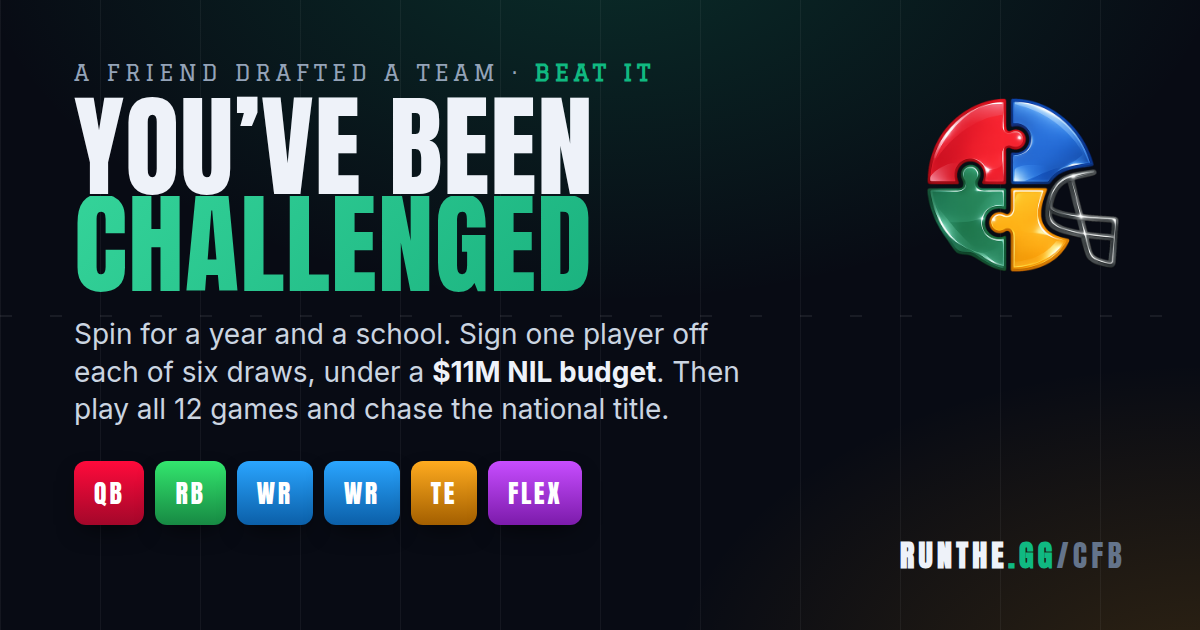
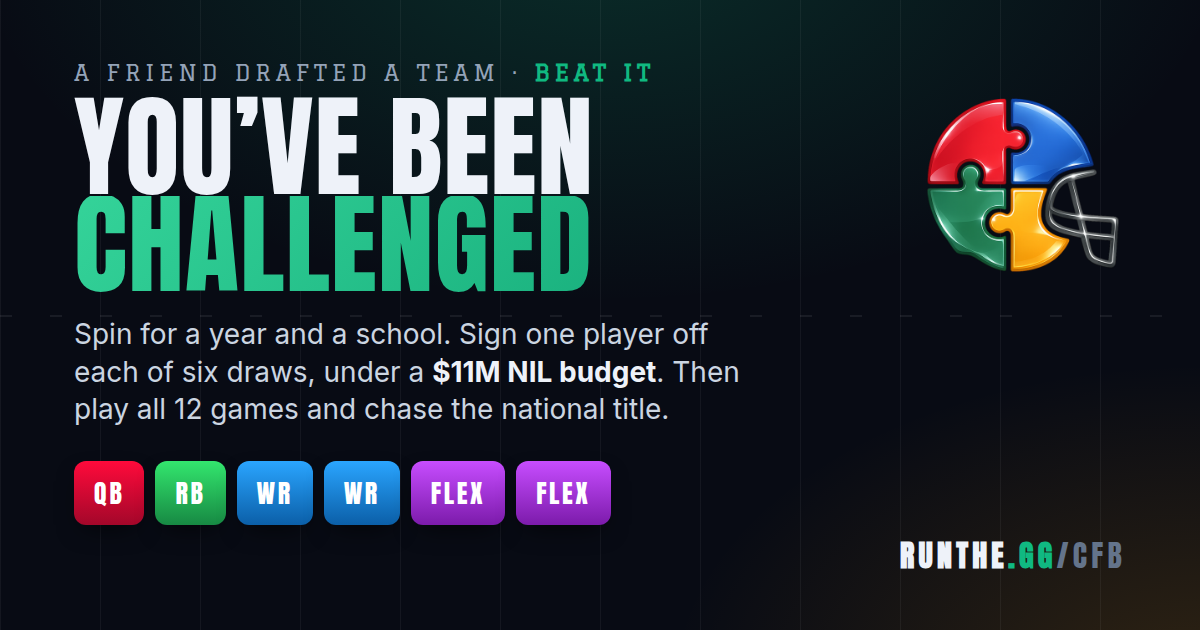
Roster slots become QB/RB/WR/WR/FLEX/FLEX, tight end optional, two-back cap
The dedicated tight end slot is gone. Only 73% of team-seasons even
field a tight end and the position's ceiling sits far below receiver and
back, so a forced TE spot made every roster carry the pool's weakest
position and locked out most early-2000s teams that have none to draft.
The tight end now competes for a flex spot, which makes it a choice: sign
one for a two-way front, or skip him for a third receiver and throw it
around. TEs are not extinct (a value drafter rosters one ~60% of the
time, a greedy one ~25-37%) and not mandatory. The Air Raid scheme now
names the no-tight-end aerial identity, and Pro Style and Power Run still
reward a real tight end beside a real back.

A running back is capped at two per roster: with two flex spots open to a
back, a roster could otherwise stack three, which is not a real offence.
The cap is enforced in the live draft and threaded through the
best-possible-squad knapsack (a third DP axis) and its local-search
climb, so the best-possible shown on the results screen, and the
perfect-draft badge measured against it, stay draftable.

ECONOMY RE-ANCHORED. Dropping the forced weak TE lifted the best
draftable overall from about 102 to about 111, and the two-back cap
pushes the greedy drafter into a receiver, which the balance factor
rewards, so both changes made the average roster stronger and pulled
title and perfect rates up by roughly half again. The last-two-round
pivots and the perfect floor rise with the ceiling to hold difficulty:
[…]

Changed region(s): [[0.3392, 0.7238, 0.5242, 0.8444]]

diff --git a/cfb/engine.js b/cfb/engine.js
@@ -39,6 +39,13 @@ const CONSTANTS = {
   CAP_MUSD: 11,
   RESPIN_LADDER_MUSD: [0.5, 1.0, 1.5],
   MAX_RESPINS: 3,
+  /* HOW MANY OF ONE POSITION A ROSTER MAY HOLD. With two flex spots open to a
+     running back, a roster could otherwise stack three of them, which is not a
+     real offence. Two is the limit: one in the dedicated back spot and at most
+     one more in a flex. Quarterbacks are capped at one by having a single slot
+     and no flex eligibility; receivers and tight ends are left uncapped so an
+     all-receiver Air Raid stays a legal choice. */
+  POSITION_MAX: { RB: 2 },
   MIN_RESERVE_PER_SLOT_MUSD: 0.3,
   REGULAR_SEASON_GAMES: 12,
   /* The 12-team College Football Playoff. You are not measured against a win
@@ -67,8 +74,8 @@ const CONSTANTS = {
   /* THE TWO FLOORS UNDER THE TITLE. See teamRating() and titleEdge(). They are
      in rating points, which is what the screens show, because there is no scale
      factor any more: see teamOverall(). */
-  TITLE_FLOOR: 88,
-  PERFECT_FLOOR: 90,
+  TITLE_FLOOR: 89,
+  PERFECT_FLOOR: 92,
   ROUND_EDGE_MAX: 3.20,
   ROUND_EDGE_MIN: 0.86,
   ROUND_EDGE_SLOPE: 0.075,
@@ -77,17 +84,23 @@ const CONSTANTS = {
      scraped into the field; the team waiting in the final is not. This is what
      makes how FAR a season goes track the roster rather than the draw.
      The last two are set high on purpose so that winning it all is rare even
-     with the field widened: the semifinal at 98 thins who reaches the final to
-     near-elite rosters, and the championship at 99 needs a roster near the very
-     top of what the wheel can hand you. 99 sits just under the best draftable
-     overall (about 102), which is the floor: pushed to 100 the final becomes
-     unwinnable for every reachable roster and a perfect season turns
-     mathematically impossible, so 99 is deliberate, not round. */
+     with the field widened: the semifinal thins who reaches the final to
+     near-elite rosters, and the championship needs a roster near the very top
+     of what the wheel can hand you. RE-ANCHORED when the tight-end slot became
+     a second flex: dropping the forced weak TE lifted the best draftable overall
+     from about 102 to about 111 (p95 of the best-possible draft is ~104), which
+     pulled title and perfect rates up by roughly half again. The semifinal and
+     championship pivots move up with the ceiling to hold those rates where they
+     were, and rose once more when the two-back cap landed: forbidding a third
+     running back pushes the greedy drafter into a receiver, which the balance
+     factor rewards, so the average roster got stronger and titles crept up
+     again. Both still sit a clear eight-plus points under the 111 max, so a
+     perfect season stays reachable rather than mathematically impossible. */
   ROUND_EDGE_PIVOT: {
     'CFP First Round': 82,
-    'CFP Quarterfinal': 88,
-    'CFP Semifinal': 98,
-    'CFP Championship': 99,
+    'CFP Quarterfinal': 90,
+    'CFP Semifinal': 100,
+    'CFP Championship': 102,
   },
   // Extra, per point below TITLE_FLOOR, on top of the ordinary slope. Final only.
   TITLE_EDGE_CLIFF: 0.16,
@@ -769,14 +782,27 @@ const SCHEMES = [
     key: 'air_raid',
     name: 'Air Raid',
     detect(roster) {
+      /* THE NO-TIGHT-END IDENTITY. With the TE slot gone, skipping the tight
+         end for a third receiver is a real choice, and this is its reward: a
+         big-arm quarterback and a deep receiver room, no in-line tight end,
+         everything spread wide. A roster that signed a TE is not an Air Raid;
+         it falls through to Pro Style or Power Run below. */
+      if (roster.some(p => p.position === 'TE')) return -1;
       const qb = roster.find(p => p.position === 'QB');
       if (!qb || (qb.pass_ppg || 0) < 16) return -1;
       const wrs = roster.filter(p => p.position === 'WR' && (p.rec_ppg || 0) >= 8)
         .sort((a, b) => (b.rec_ppg || 0) - (a.rec_ppg || 0));
       if (wrs.length < 2) return -1;
-      return fitAvg(over(qb.pass_ppg, 16, 7), over(wrs[0].rec_ppg, 8, 7), over(wrs[1].rec_ppg, 8, 7));
+      /* A third receiving threat (the flex, usually a WR) deepens the room and
+         lifts the fit, so a true three-wide set reads as a fuller Air Raid than
+         a two-man one. */
+      const third = roster.filter(p => (p.rec_ppg || 0) >= 6 && p !== wrs[0] && p !== wrs[1])
+        .sort((a, b) => (b.rec_ppg || 0) - (a.rec_ppg || 0))[0];
+      const parts = [over(qb.pass_ppg, 16, 7), over(wrs[0].rec_ppg, 8, 7), over(wrs[1].rec_ppg, 8, 7)];
+      if (third) parts.push(over(third.rec_ppg, 6, 7));
+      return fitAvg(...parts);
     },
-    strength: 'Air Raid. The passing game can carry this team.',
+    strength: 'Air Raid. No tight end, all receivers, the pass game carries it.',
   },
   {
     key: 'pro_style',
@@ -933,7 +959,16 @@ function coachReport(roster, chemResult) {
 
 // ─── slots ──────────────────────────────────────────────────────────────────
 
-const SLOTS = ['QB', 'RB', 'WR', 'WR', 'TE', 'FLEX'];
+/* NO DEDICATED TIGHT END SLOT. Only 73% of team-seasons field a TE at all, and
+   the position's ceiling is far below WR and RB (its best season scores 24 to
+   their 35), so a forced TE spot made every roster carry the pool's weakest
+   position and quietly locked out most of the early-2000s teams that have no TE
+   to draft. The tight end now competes for a FLEX spot instead, which turns him
+   into a CHOICE: sign one for a balanced, two-way front (the Pro Style and Power
+   Run schemes reward a real TE beside a real RB), or skip him for a third
+   receiver and let the Air Raid carry you through the air. The TE entry stays in
+   the eligibility map so a tight end is still FLEX-eligible. */
+const SLOTS = ['QB', 'RB', 'WR', 'WR', 'FLEX', 'FLEX'];
 const SLOT_ELIGIBILITY = {
   QB: ['QB'], RB: ['RB'], WR: ['WR'], TE: ['TE'], FLEX: ['RB', 'WR', 'TE'],
 };

diff --git a/cfb/run.js b/cfb/run.js
@@ -225,6 +225,12 @@ function openSlots(run) {
 }
 
 function slotForPlayer(run, player) {
+  /* A position cap blocks the pick outright, whatever slot is open: two running
+     backs is the limit, so a third has nowhere to go even with a flex free. */
+  const cap = (E.CONSTANTS.POSITION_MAX || {})[player.position];
+  if (cap != null && run.roster.filter((p) => p.position === player.position).length >= cap) {
+    return null;
+  }
   const open = openSlots(run);
   const dedicated = open.find((i) => E.SLOTS[i] === player.position);
   if (dedicated !== undefined) return dedicated;
@@ -560,51 +566,68 @@ function bestPossibleSquad(run, data, ctx) {
   const masksByCount = Array.from({ length: nSlots + 1 }, () => []);
   for (let m = 0; m <= FULL; m++) masksByCount[popcount(m)].push(m);
 
+  /* THE RUNNING-BACK CAP RIDES A THIRD DP AXIS. Slots and budget cannot express
+     "at most two of one position" on their own, so the state carries how many
+     backs are already on the roster (0..RCAP) and a third one is never placed.
+     Without this the best-possible squad the results screen shows, and the
+     perfect-draft badge measured against it, could be a three-back team the
+     player is not allowed to draft. RB is the only capped position, so one small
+     axis covers it. */
+  const RCAP = (E.CONSTANTS.POSITION_MAX || {}).RB ?? nSlots;
+  const RN = RCAP + 1;
+  const at = (mask, b, r) => (mask * NB + b) * RN + r;
+
   function solve(banned) {
     const lists = pool.map((list, i) => (banned[i].size
       ? list.filter((p) => !banned[i].has(p.player_id)) : list));
     if (lists.some((list) => !list.length)) return null;
-    const dp = new Float64Array((FULL + 1) * NB).fill(NEG);
-    const from = new Int32Array((FULL + 1) * NB).fill(-1);
-    dp[0] = 0;
+    const dp = new Float64Array((FULL + 1) * NB * RN).fill(NEG);
+    const from = new Int32Array((FULL + 1) * NB * RN).fill(-1);
+    dp[at(0, 0, 0)] = 0;
 
     for (let i = 0; i < nSlots; i++) {
       for (const mask of masksByCount[i]) {
-        const base = mask * NB;
         for (let b = 0; b < NB; b++) {
-          const cur = dp[base + b];
-          if (cur <= NEG) continue;
-          const list = lists[i];
-          for (let pi = 0; pi < list.length; pi++) {
-            const p = list[pi];
-            const cost = Math.ceil(p.price_musd / BUCKET);
-            const nb = b + cost;
-            if (nb >= NB) continue;
-            for (let s = 0; s < nSlots; s++) {
-              if (mask & (1 << s)) continue;
-              if (!fits(p, s)) continue;
-              const nm = mask | (1 << s);
-              const idx = nm * NB + nb;
-              const val = cur + p.ppr_ppg_mean;
-              if (val > dp[idx]) { dp[idx] = val; from[idx] = pi * 8 + s; }
+          for (let r = 0; r < RN; r++) {
+            const cur = dp[at(mask, b, r)];
+            if (cur <= NEG) continue;
+            const list = lists[i];
+            for (let pi = 0; pi < list.length; pi++) {
+              const p = list[pi];
+              const isRB = p.position === 'RB';
+              if (isRB && r >= RCAP) continue;
+              const cost = Math.ceil(p.price_musd / BUCKET);
+              const nb = b + cost;
+              if (nb >= NB) continue;
+              const nr = isRB ? r + 1 : r;
+              for (let s = 0; s < nSlots; s++) {
+                if (mask & (1 << s)) continue;
+                if (!fits(p, s)) continue;
+                const nm = mask | (1 << s);
+                const idx = at(nm, nb, nr);
+                const val = cur + p.ppr_ppg_mean;
+                if (val > dp[idx]) { dp[idx] = val; from[idx] = pi * 8 + s; }
+              }
             }
           }
         }
       }
     }
 
-    let bestB = -1, bestVal = NEG;
+    let bestB = -1, bestR = -1, bestVal = NEG;
     for (let b = 0; b < NB; b++) {
-      const v = dp[FULL * NB + b];
-      if (v > bestVal) { bestVal = v; bestB = b; }
+      for (let r = 0; r < RN; r++) {
+        const v = dp[at(FULL, b, r)];
+        if (v > bestVal) { bestVal = v; bestB = b; bestR = r; }
+      }
     }
     if (bestB < 0) return null;
 
     const bySlot = new Array(nSlots).fill(null);
     const drawOfSlot = new Array(nSlots).fill(-1);
-    let mask = FULL, b = bestB;
+    let mask = FULL, b = bestB, r = bestR;
     for (let i = nSlots - 1; i >= 0; i--) {
-      const packed = from[mask * NB + b];
+      const packed = from[at(mask, b, r)];
       if (packed < 0) return null;
       const pi = Math.floor(packed / 8), s = packed % 8;
       const p = lists[i][pi];
@@ -612,6 +635,7 @@ function bestPossibleSquad(run, data, ctx) {
       drawOfSlot[s] = i;
       mask &= ~(1 << s);
       b -= Math.ceil(p.price_musd / BUCKET);
+      if (p.position === 'RB') r -= 1;
     }
     return { bySlot, drawOfSlot, value: bestVal };
   }
@@ -647,6 +671,12 @@ function bestPossibleSquad(run, data, ctx) {
       * E.resolveChemistry(arr, ctx).multiplier
       * E.rosterStructure(arr).multiplier;
   };
+  /* The climb starts from a cap-legal squad and must stay one: a swap that would
+     put a third running back on the field is rejected however much it scores, the
+     same rule the draft enforces. */
+  const CAPS = E.CONSTANTS.POSITION_MAX || {};
+  const withinCaps = (arr) => Object.keys(CAPS).every((pos) =>
+    arr.filter((p) => p.position === pos).length <= CAPS[pos]);
   const climb = (start, ofSlot) => {
     let cur = start.slice(), curScore = score(cur);
     for (let pass = 0; pass < 3; pass++) {
@@ -657,6 +687,7 @@ function bestPossibleSquad(run, data, ctx) {
           if (cur.some((p, j) => j !== s && p.player_id === cand.player_id)) continue;
           const trial = cur.slice();
           trial[s] = cand;
+          if (!withinCaps(trial)) continue;
           const sc = score(trial);
           if (sc > curScore + 1e-9) { cur = trial; curScore = sc; improved = true; }
         }

diff --git a/cfb/index.html b/cfb/index.html
@@ -39,14 +39,14 @@
 <meta property="og:site_name" content="RunThe.GG">
 <meta property="og:url" content="https://runthe.gg/cfb/">
 <meta property="og:locale" content="en_US">
-<meta property="og:image" content="https://runthe.gg/cfb/og.png?v=2">
+<meta property="og:image" content="https://runthe.gg/cfb/og.png?v=3">
 <meta property="og:image:width" content="1200">
 <meta property="og:image:height" content="630">
-<meta property="og:image:alt" content="College Football: Perfect Season. Spin for a year and a school, sign six players under an $11M NIL budget and play a full season. The six roster spots shown as QB, RB, WR, WR, TE and FLEX.">
+<meta property="og:image:alt" content="College Football: Perfect Season. Spin for a year and a school, sign six players under an $11M NIL budget and play a full season. The six roster spots shown as QB, RB, WR, WR, FLEX and FLEX.">
 <meta name="twitter:card" content="summary_large_image">
 <meta name="twitter:title" content="College Football: Perfect Season">
 <meta name="twitter:description" content="Draft a college football roster from every season since 2005 under an $11M NIL budget, then play all 12 games and chase a perfect season.">
-<meta name="twitter:image" content="https://runthe.gg/cfb/og.png?v=2">
+<meta name="twitter:image" content="https://runthe.gg/cfb/og.png?v=3">
 <meta name="twitter:image:alt" content="College Football: Perfect Season. Draft six players under an $11M NIL budget and play a full season.">
 <!-- Structured data, so a search result can carry the game's name and category rather
      than only a blue link. VideoGame is the type Google documents for this; the offer
@@ -2338,8 +2338,8 @@ or endorsed by the NCAA, the CFP or any school.
      versioned too, in the fetch at the bottom of this file, and the share card is
      versioned on its og:image. -->
 <script defer src="https://cdn.jsdelivr.net/npm/@supabase/supabase-js@2.45.4/dist/umd/supabase.js"></script>
-<script src="engine.js?v=15"></script>
-<script src="run.js?v=8"></script>
+<script src="engine.js?v=16"></script>
+<script src="run.js?v=9"></script>
 <script src="achievements.js?v=7"></script>
 <script src="auth.js?v=1"></script>
 <script src="board.js?v=1"></script>
@@ -2537,14 +2537,22 @@ window.addEventListener('error',(ev)=>{
    The field is laid out by the POSITIONS you actually signed, not by slot order, so a
    back drafted into the flex lines up in the backfield and the four men on the line of
    scrimmage share one row (two chips on the same line can never collide vertically). */
+/* Formation coordinates by how many of a position are on the field. With the TE
+   slot gone the maxima moved: two dedicated WR plus two flex can put FOUR
+   receivers out wide, one dedicated RB plus a flex can put two in the backfield,
+   and either flex can hold a TE, so those rows gained an entry. The one- and
+   two-of cases keep their old coordinates so a typical roster looks unchanged;
+   FLEX is now a table like the rest so two empty flex spots sit apart instead of
+   stacking on one point. */
 const SPOTS={
   QB:[{x:50,y:44}],
-  RB:[[{x:28,y:64}],[{x:28,y:64},{x:72,y:64}]],
-  WR:[[],[{x:50,y:24}],[{x:12,y:24},{x:88,y:24}],[{x:12,y:24},{x:88,y:24},{x:32,y:24}]],
-  TE:[[],[{x:68,y:24}],[{x:68,y:24},{x:32,y:24}]],
-  FLEX:{x:32,y:24},
+  RB:[[],[{x:28,y:64}],[{x:28,y:64},{x:72,y:64}],[{x:22,y:64},{x:50,y:64},{x:78,y:64}]],
+  WR:[[],[{x:50,y:24}],[{x:12,y:24},{x:88,y:24}],[{x:12,y:24},{x:88,y:24},{x:32,y:24}],
+    [{x:10,y:22},{x:90,y:22},{x:30,y:27},{x:70,y:27}]],
+  TE:[[],[{x:68,y:24}],[{x:66,y:24},{x:34,y:24}]],
+  FLEX:[[],[{x:32,y:24}],[{x:30,y:26},{x:70,y:26}]],
 };
-const SPOT_FALLBACK=[{x:50,y:44},{x:28,y:64},{x:12,y:24},{x:88,y:24},{x:68,y:24},{x:32,y:24}];
+const SPOT_FALLBACK=[{x:50,y:44},{x:28,y:64},{x:12,y:24},{x:88,y:24},{x:70,y:26},{x:32,y:26}];
 
 function layoutFor(){
   const n=E.SLOTS.length;
@@ -2559,10 +2567,10 @@ function layoutFor(){
     const row=table[Math.min(list.length,table.length-1)]||table[table.length-1];
     list.forEach((i,k)=>{ out[i]=row[Math.min(k,row.length-1)]; });
   };
-  place('RB',[SPOTS.RB[0],SPOTS.RB[0],SPOTS.RB[1]]);
+  place('RB',SPOTS.RB);
   place('WR',SPOTS.WR);
   place('TE',SPOTS.TE);
-  for(const i of slotsOf('FLEX')) out[i]=SPOTS.FLEX;
+  place('FLEX',SPOTS.FLEX);
   out.forEach((v,i)=>{ if(!v) out[i]=SPOT_FALLBACK[i]; });
   return out;
 }
@@ -6070,7 +6078,7 @@ const HERO_SPOTS=[
   {label:'RB',left:28,top:64},
   {label:'WR',left:12,top:24},
   {label:'WR',left:88,top:24},
-  {label:'TE',left:68,top:24},
+  {label:'FLEX',left:68,top:24},
   {label:'FLEX',left:32,top:24},
 ];
 const HERO_TOP_N=20;

diff --git a/cfb/how-to-play.html b/cfb/how-to-play.html
@@ -26,7 +26,7 @@
 <link href="https://fonts.googleapis.com/css2?family=Anton&family=Graduate&family=Archivo:wght@400;600;700;800;900&display=swap" rel="stylesheet">
 
 <script type="application/ld+json">
-{"@context":"https://schema.org","@type":"HowTo","name":"How to play College Football: Perfect Season","description":"Draft six college football players from any season since 2005 under an $11M NIL budget using a year-and-school wheel, then play a full 12-game season and the College Football Playoff.","totalTime":"PT10M","estimatedCost":{"@type":"MonetaryAmount","currency":"USD","value":"0"},"step":[{"@type":"HowToStep","name":"Spin for a year and a school","text":"The wheel gives you a season, then a school from that season. You sign one player off that roster."},{"@type":"HowToStep","name":"Fill six spots under the budget","text":"Six spins fill QB, RB, WR, WR, TE and FLEX, and you have $11M of NIL money to spend across all six."},{"@type":"HowToStep","name":"Re-spin if you need to","text":"Re-spin the year or the school for $500K, then $1M, then $1.5M, charged against your remaining budget."},{"@type":"HowToStep","name":"Build chemistry","text":"Players who shared a program, a home state or a conference build chemistry, which lifts the whole roster."},{"@type":"HowToStep","name":"Play the season","text":"Play all 12 games. Finish in the top 12 of the country and you are in the College Football Playoff; the top four seeds skip the first round."}]}
+{"@context":"https://schema.org","@type":"HowTo","name":"How to play College Football: Perfect Season","description":"Draft six college football players from any season since 2005 under an $11M NIL budget using a year-and-school wheel, then play a full 12-game season and the College Football Playoff.","totalTime":"PT10M","estimatedCost":{"@type":"MonetaryAmount","currency":"USD","value":"0"},"step":[{"@type":"HowToStep","name":"Spin for a year and a school","text":"The wheel gives you a season, then a school from that season. You sign one player off that roster."},{"@type":"HowToStep","name":"Fill six spots under the budget","text":"Six spins fill QB, RB, WR, WR, FLEX and FLEX, and you have $11M of NIL money to spend across all six."},{"@type":"HowToStep","name":"Re-spin if you need to","text":"Re-spin the year or the school for $500K, then $1M, then $1.5M, charged against your remaining budget."},{"@type":"HowToStep","name":"Build chemistry","text":"Players who shared a program, a home state or a conference build chemistry, which lifts the whole roster."},{"@type":"HowToStep","name":"Play the season","text":"Play all 12 games. Finish in the top 12 of the country and you are in the College Football Playoff; the top four seeds skip the first round."}]}
 </script>
 
 <style>
@@ -118,10 +118,12 @@ gtag('consent','default',{ad_storage:'denied',ad_user_data:'denied',ad_personali
       <div class="spots">
         <span class="spot qb">QB</span><span class="spot rb">RB</span>
         <span class="spot wr">WR</span><span class="spot wr">WR</span>
-        <span class="spot te">TE</span><span class="spot fx">FLEX</span>
+        <span class="spot fx">FLEX</span><span class="spot fx">FLEX</span>
       </div>
-      <p>Five of them take one position each. The <b>FLEX</b> takes a running back, a receiver or a
-        tight end, whoever the wheel puts in front of you.</p>
+      <p>Four of them take one position each. The two <b>FLEX</b> spots each take a running back, a
+        receiver or a tight end, whoever the wheel puts in front of you. There is no tight end spot of
+        its own, so a good tight end is a choice you make in the flex, not one the roster makes for
+        you: sign one for a two-way front, or load up on receivers and throw it around.</p>
 
       <h2>The rules</h2>
       <ol class="rules">

diff --git a/cfb/c/index.html b/cfb/c/index.html
@@ -7,14 +7,14 @@
 <meta property="og:description" content="A friend drafted a college roster and dared you to beat it. Accept the challenge and find out.">
 <meta property="og:type" content="website">
 <meta property="og:url" content="https://runthe.gg/cfb/c/">
-<meta property="og:image" content="https://runthe.gg/cfb/og-challenge.png?v=1">
+<meta property="og:image" content="https://runthe.gg/cfb/og-challenge.png?v=2">
 <meta property="og:image:width" content="1200">
 <meta property="og:image:height" content="630">
 <meta property="og:image:alt" content="You've Been Challenged. College Football: Perfect Season at RunThe.GG/CFB">
 <meta name="twitter:card" content="summary_large_image">
 <meta name="twitter:title" content="You've Been Challenged | College Football: Perfect Season">
 <meta name="twitter:description" content="A friend drafted a college roster and dared you to beat it. Accept the challenge and find out.">
-<meta name="twitter:image" content="https://runthe.gg/cfb/og-challenge.png?v=1">
+<meta name="twitter:image" content="https://runthe.gg/cfb/og-challenge.png?v=2">
 <meta name="twitter:image:alt" content="You've Been Challenged. College Football: Perfect Season at RunThe.GG/CFB">
 <link rel="canonical" href="https://runthe.gg/cfb/">
 <script>location.replace('/cfb/'+location.search);</script>

diff --git a/cfb/og-source.html b/cfb/og-source.html
@@ -67,7 +67,7 @@
     <div class="slots">
       <span class="slot qb">QB</span><span class="slot rb">RB</span>
       <span class="slot wr">WR</span><span class="slot wr">WR</span>
-      <span class="slot te">TE</span><span class="slot fx">FLEX</span>
+      <span class="slot fx">FLEX</span><span class="slot fx">FLEX</span>
     </div>
   </div>
   <div class="url"><b>RUNTHE<i>.GG</i></b>/CFB</div>
